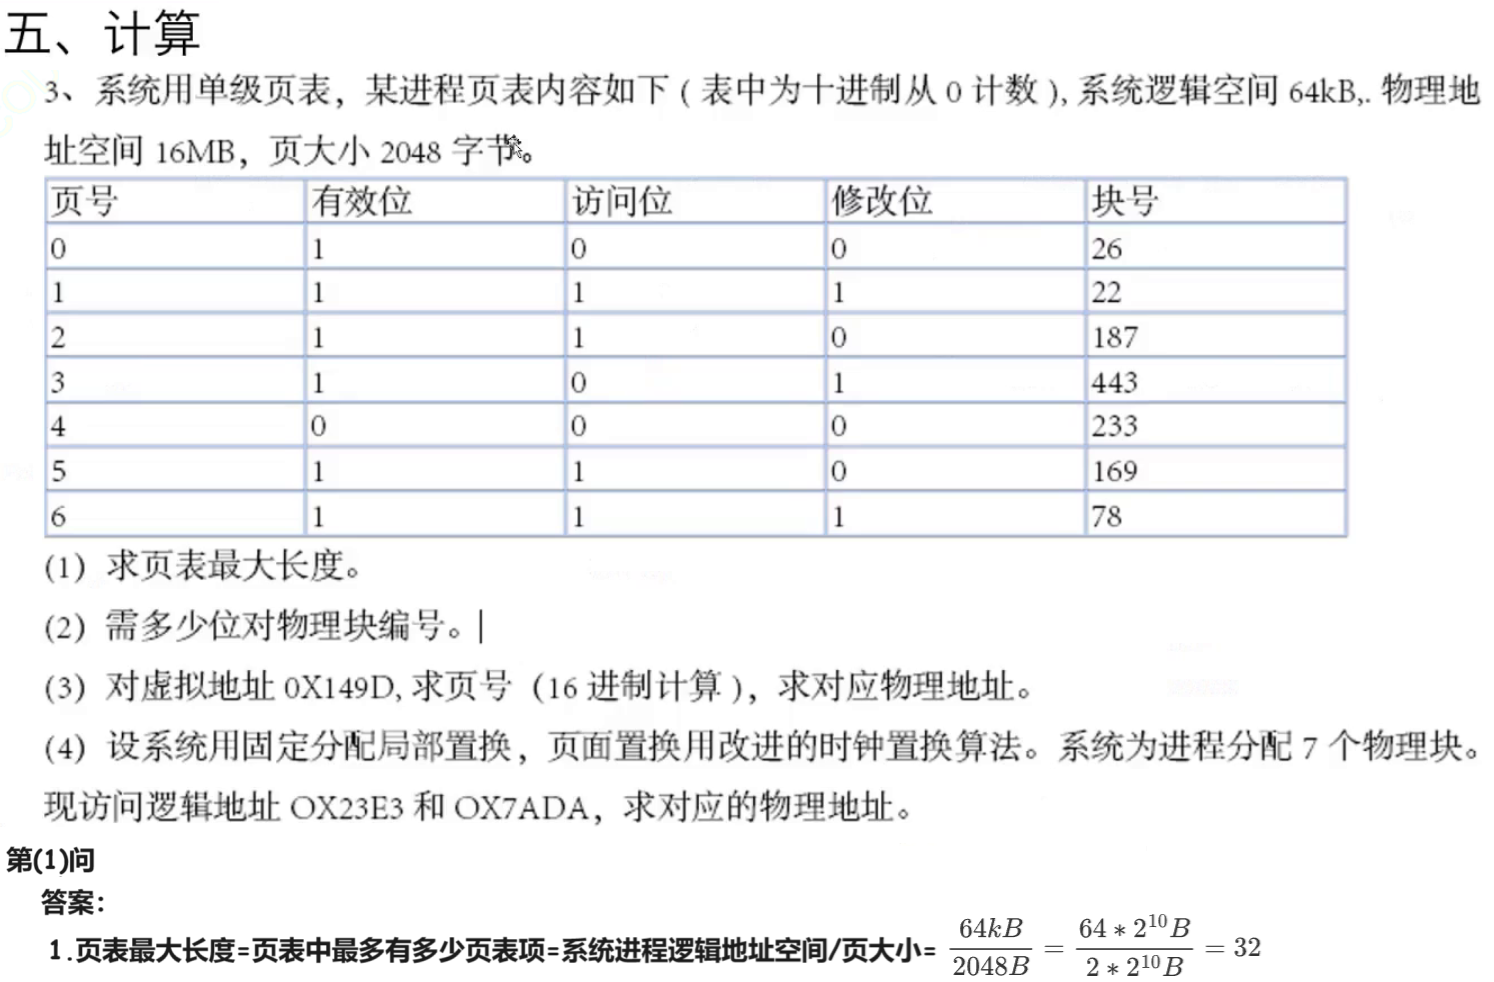
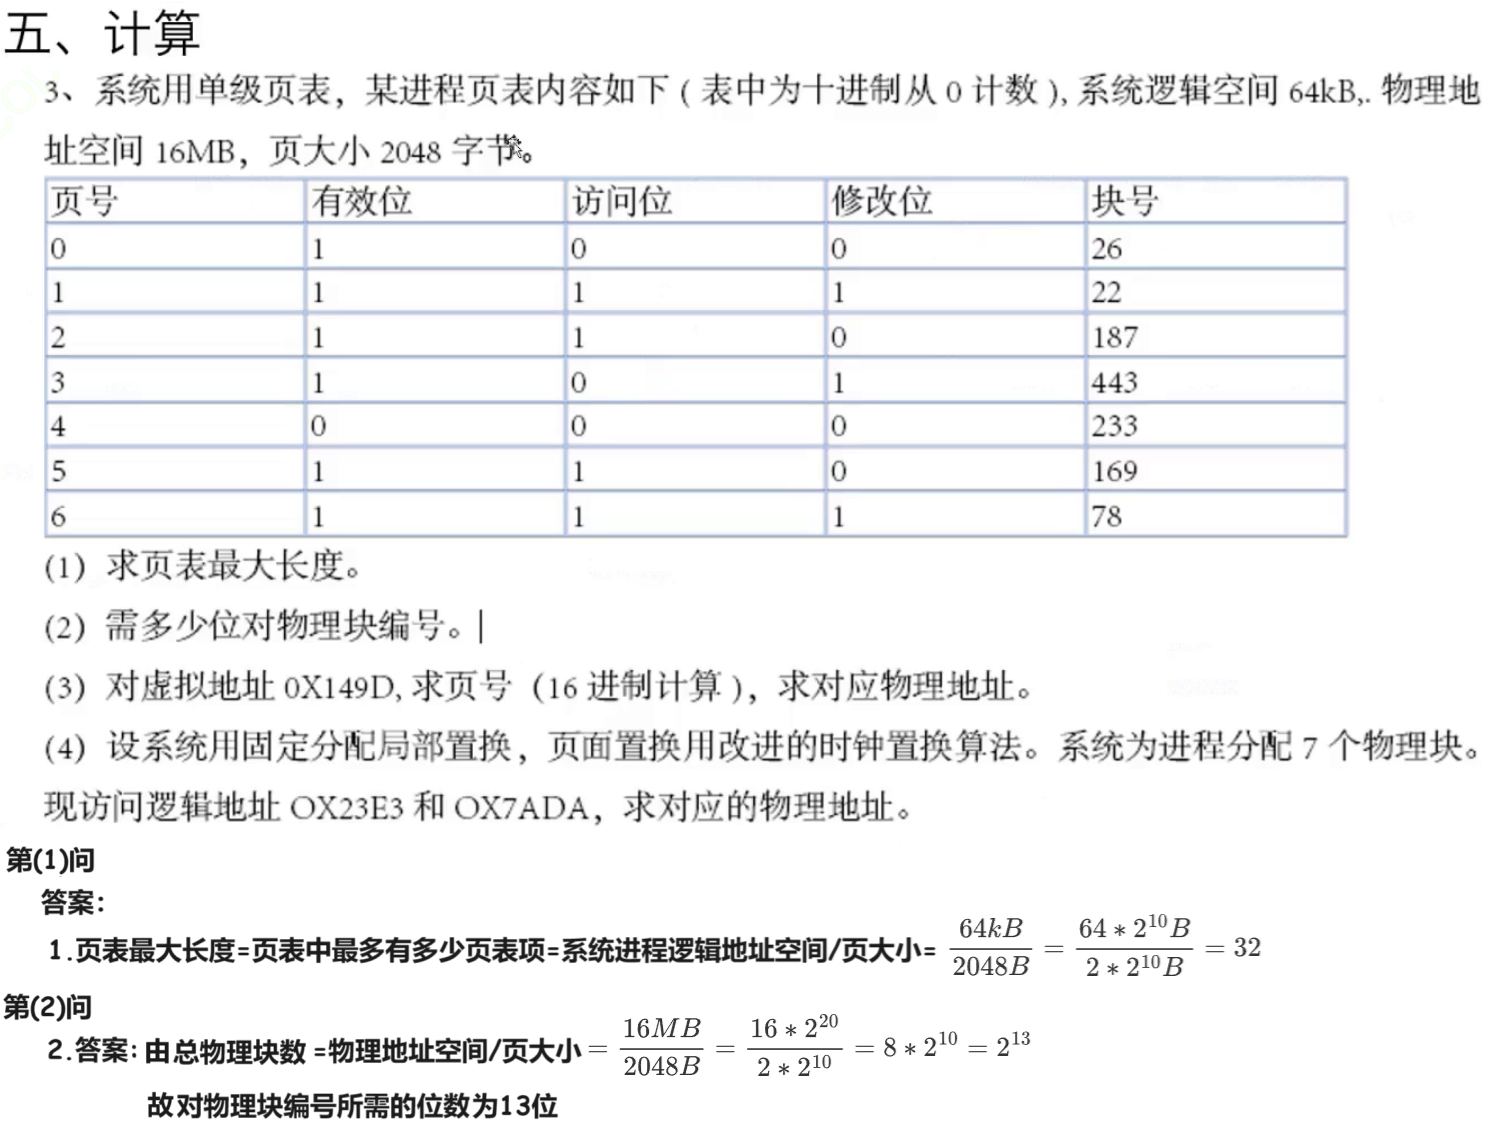
240108

Changed region(s): [[0.0, 0.0, 1.0, 1.0]]

diff --git a/04 每日一题/01 820/05 23/01 操作系统部分/03 计算题/03 请求分页存储管理 240107/01 题目/01 Doc.md b/04 每日一题/01 820/05 23/01 操作系统部分/03 计算题/03 请求分页存储管理 240107/01 题目/01 Doc.md
@@ -12,7 +12,7 @@
 
 # 02 答案
 
-<img src="https://cvp.oss-cn-shanghai.aliyuncs.com/picgo/202401071526758.png" alt="image-20240107152615624" style="zoom:50%;" />
+<img src="https://cvp.oss-cn-shanghai.aliyuncs.com/picgo/202401080927308.png" alt="image-20240108092746141" style="zoom:50%;" />
 
 
 
